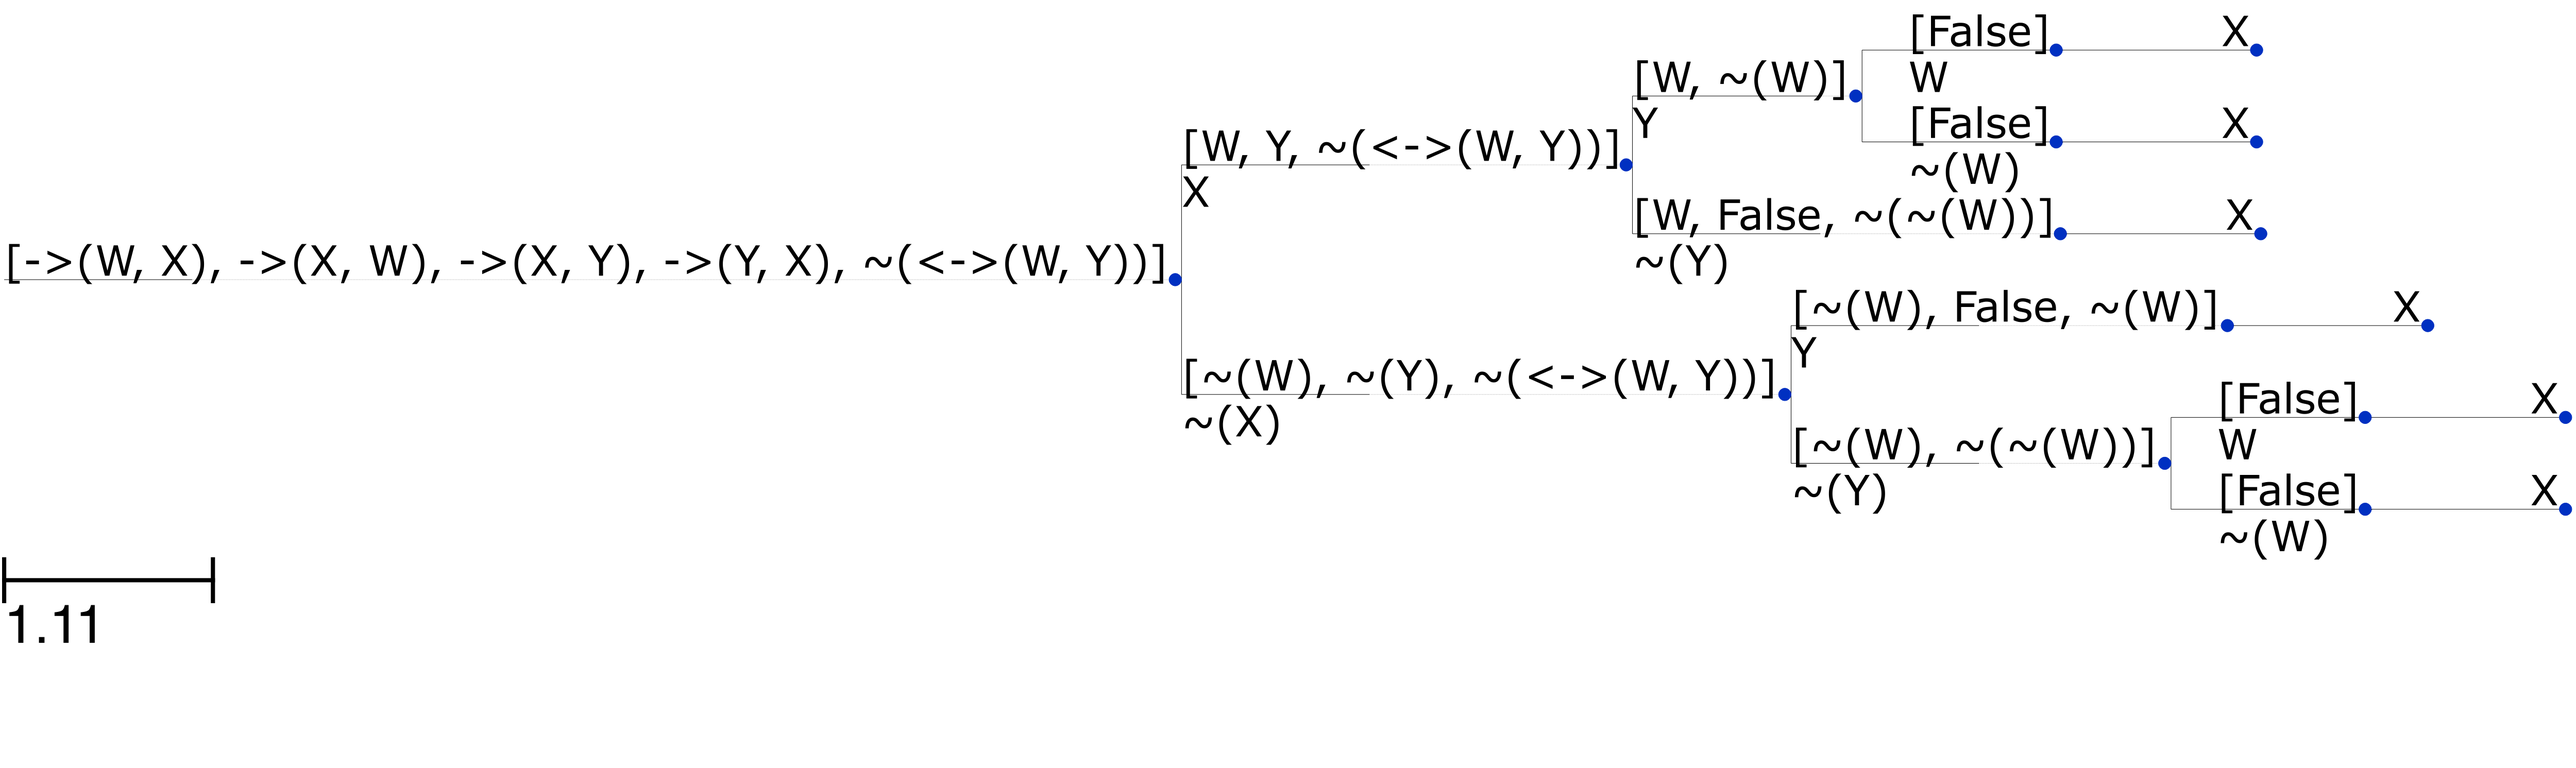
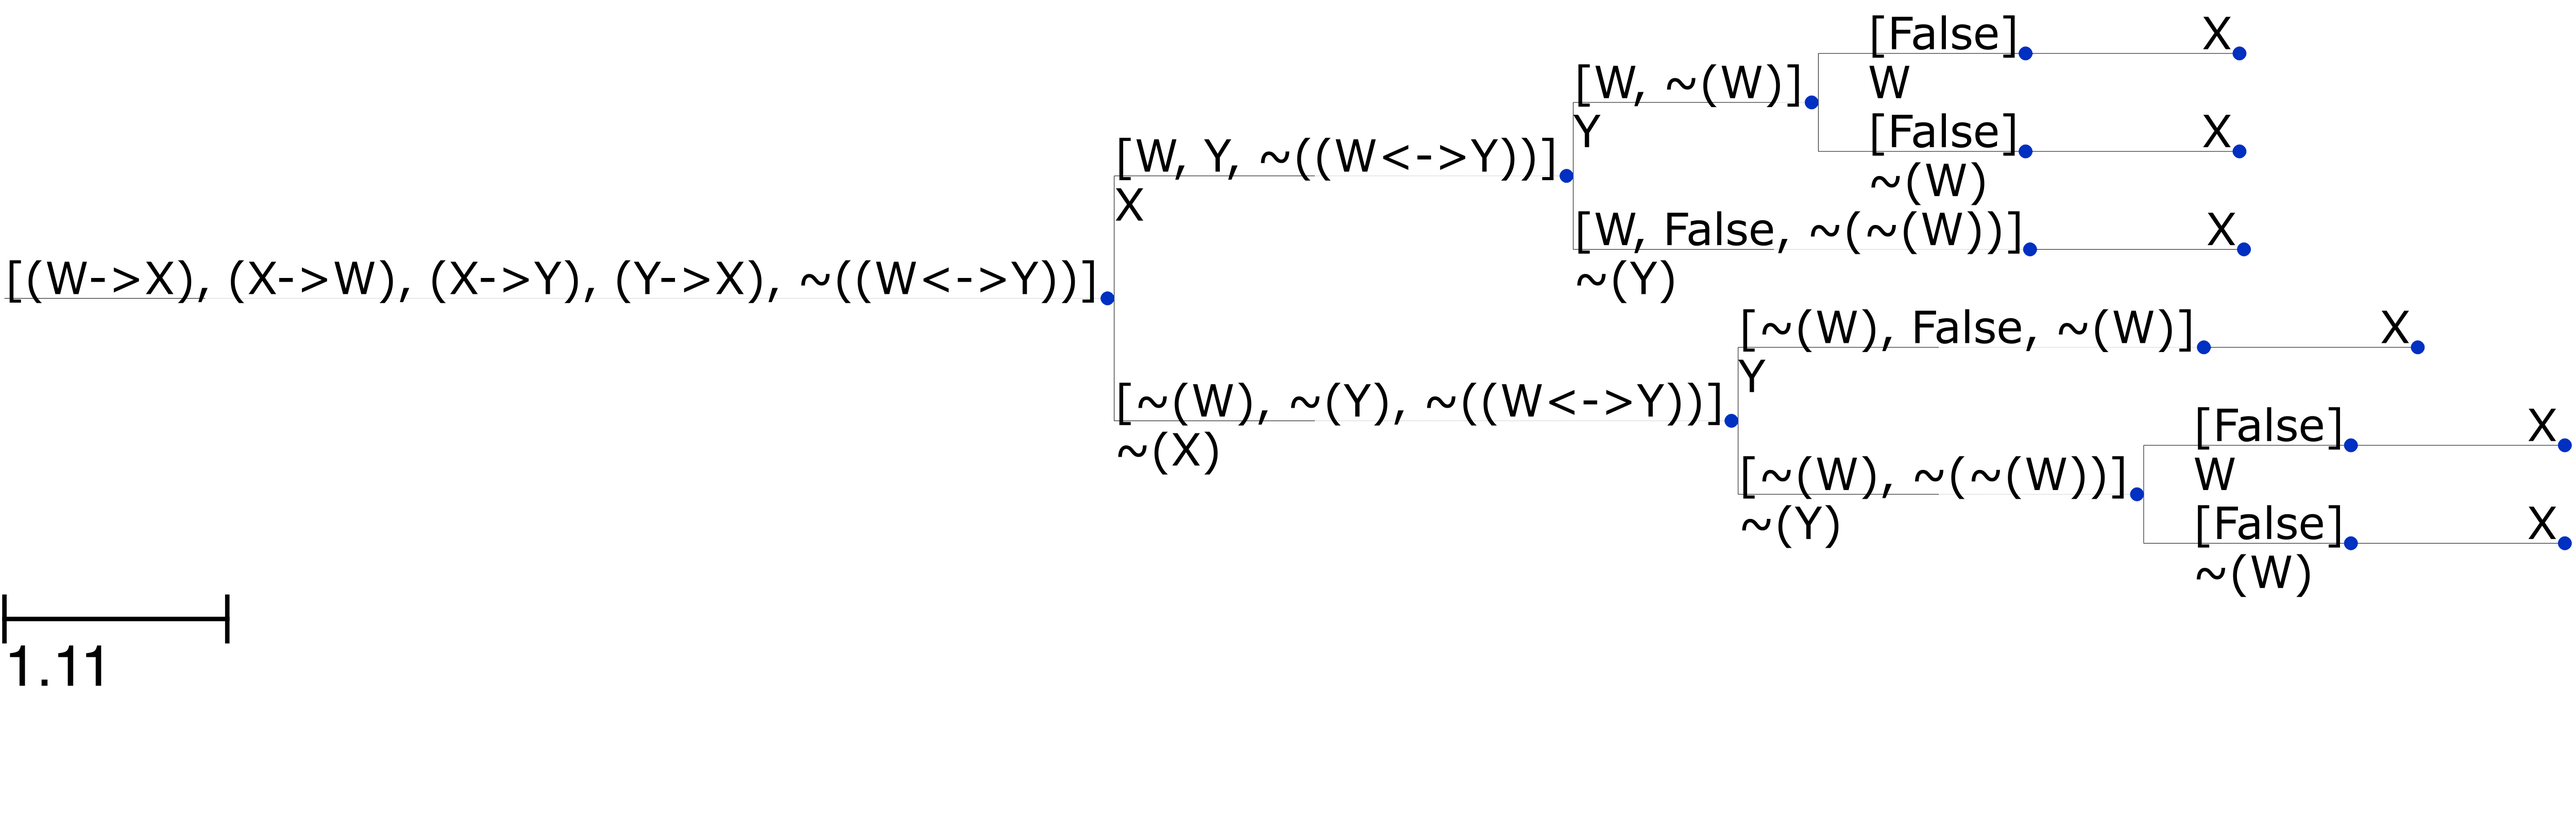
run Sat() when the argument is loaded; display Sat() value

diff --git a/templates/argument.html b/templates/argument.html
@@ -19,6 +19,15 @@
                 {% endfor %}
                 <li class="list-group-item active">{{g.conclusion}}</li>
             </ul>
+            {% if g.sat %}
+                <div class="alert alert-danger" role="alert">
+                    <strong>Satisfiable!</strong> Invalid Argument
+                </div>
+            {% else %}
+            <div class="alert alert-success" role="alert">
+                <strong>Not Satisfiable!</strong> Valid Argument
+            </div>
+            {% endif %}
           </div>
           <div class="col-md-9">
             <h3>Tree</h3>

diff --git a/templates/404.html b/templates/404.html
@@ -1,0 +1,11 @@
+{% extends "layout.html" %}
+
+{% block title %}Davis Putnam{% endblock %}
+
+{% block body %}
+
+    <div class="container">
+        <p></p>
+        <h1>404!</h1>
+    </div>
+{% endblock %}

diff --git a/server.py b/server.py
@@ -1,5 +1,9 @@
-from flask import Flask, render_template, g
+from flask import Flask, render_template, g, abort
+from ete3 import Tree, TreeStyle, TextFace
 import os
+
+from davisputnam import main
+from davisputnam import satisfiable
 
 app = Flask(__name__)
 
@@ -16,12 +20,12 @@ def argument(name):
     g.name = name
     argument_file = "static/inputs/%s.txt" % name
     g.argument_tree = "/static/outputs/%s.png" % name
+    argument_tree = "static/outputs/%s.png" % name
 
     try:
         f = open(argument_file)  # open the file
     except:
-        print "Could not open file: %s" % argument_file
-        exit(1)
+        abort(404)
 
     g.premises = []
     g.conclusion = None
@@ -31,11 +35,27 @@ def argument(name):
     g.conclusion = g.premises[-1]
     g.premises = g.premises[:-1]
 
-    print g.premises
-    print g.conclusion
+    stmt_set = main.open_argument(argument_file)
+    print stmt_set
+    g.sat, tree = satisfiable.satisfiable(stmt_set)
 
+    # set teh tree style...
+    ts = TreeStyle()
+    # don't show the name of the leaf nodes (which are just a x/o for a open/closed branch) in the final graph
+    ts.show_leaf_name = False
+
+    for child in tree.traverse():
+        # add a marker with the name of each node, at each node
+        child.add_face(TextFace(child.name), column=0, position="branch-top")
+
+    # render the file and save it
+    tree.render(argument_tree, tree_style=ts, w=5000)
 
     return render_template("argument.html")
+
+@app.errorhandler(404)
+def page_not_found(error):
+    return render_template("404.html"), 404
 
 if __name__ == "__main__":
     app.run(debug=True)
